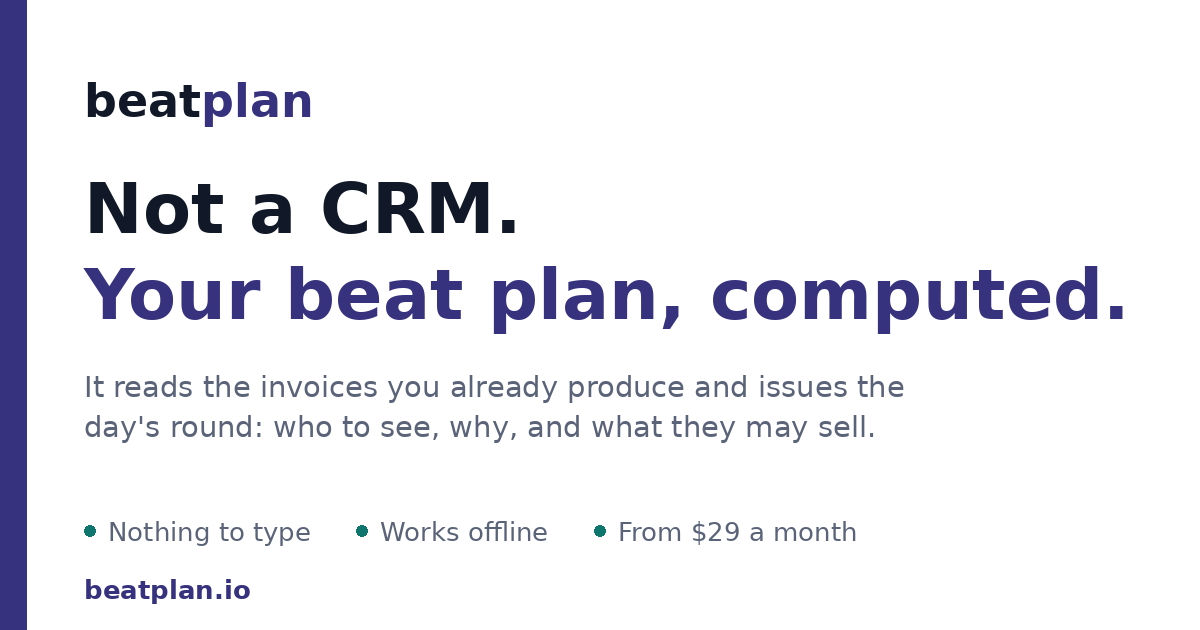
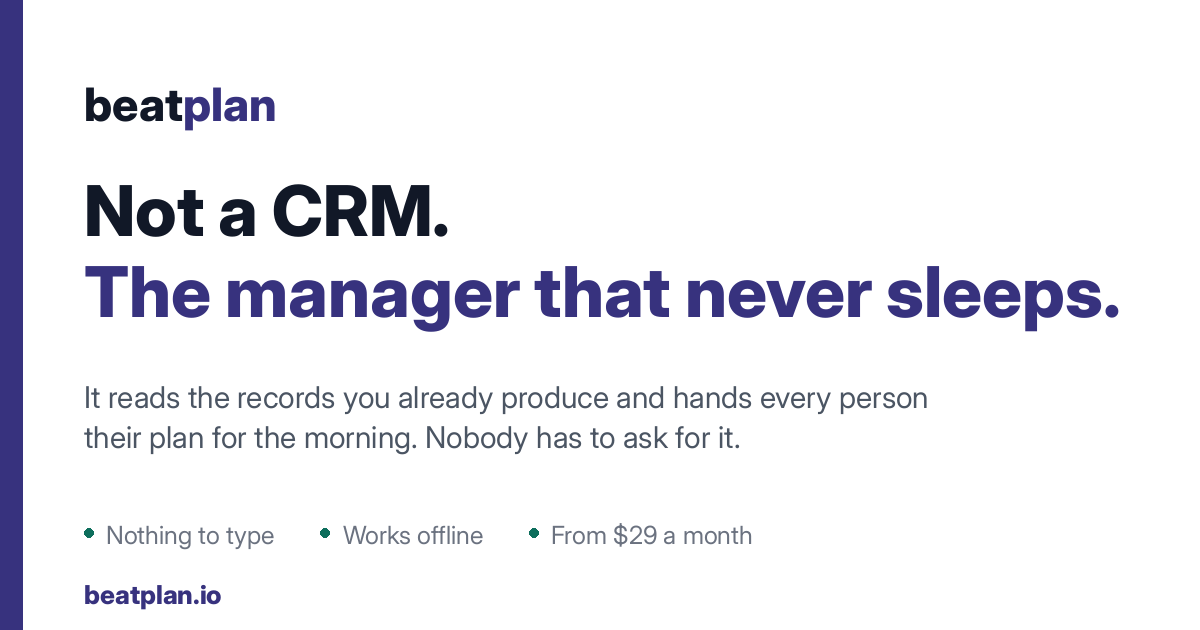
Sell the manager, not an approval queue
The trip card described work landing on a director's desk, which prices as
cost to a distributor rather than as control. The route now arrives costed
and finished. The share card carries the tagline, Greek pages get a Greek
one, and the Greek home page had no card tags at all.

Claude-Session: https://claude.ai/code/session_01BX3qPKaZ8uLsjM8UpPPava

diff --git a/el/index.html b/el/index.html
@@ -5,6 +5,14 @@
 <meta name="viewport" content="width=device-width, initial-scale=1">
 <title>Beatplan, το πλάνο της ημέρας, υπολογισμένο κάθε πρωί</title>
 <meta name="description" content="Δεν είναι CRM. Διαβάζει τα αρχεία που ήδη παράγετε, βρίσκει τι ξέφυγε, και δίνει σε κάθε άνθρωπο και κάθε τμήμα τη λίστα του για το πρωί.">
+<meta property="og:type" content="website">
+<meta property="og:title" content="Beatplan. Ο μάνατζερ που δεν κοιμάται.">
+<meta property="og:description" content="Διαβάζει τα αρχεία που ήδη βγάζετε και δίνει σε κάθε άνθρωπο το πλάνο του για το πρωί.">
+<meta property="og:url" content="https://beatplan.io/el/">
+<meta property="og:image" content="https://beatplan.io/og-el.png">
+<meta property="og:image:width" content="1200">
+<meta property="og:image:height" content="630">
+<meta name="twitter:card" content="summary_large_image">
 <link rel="canonical" href="https://beatplan.io/el/">
 <link rel="alternate" hreflang="en" href="https://beatplan.io/">
 <link rel="alternate" hreflang="el" href="https://beatplan.io/el/">
@@ -240,7 +248,7 @@
     <div class="grid g3">
       <div class="card"><h3>Κάθε πελάτης, μία καρτέλα</h3><p>Επαφές, ιστορικό, τι αγοράζει, τι χρωστάει, κάθε κλήση που καταγράφηκε ποτέ, σε ένα σημείο αντί για πέντε.</p></div>
       <div class="card"><h3>Οφειλές και υποσχέσεις πληρωμής</h3><p>Ποιος χρωστάει τι, πόσο παλιό είναι, ποιος υποσχέθηκε τι και πότε. Καταγράφεται με ένα πάτημα από την ίδια οθόνη με την κλήση.</p></div>
-      <div class="card"><h3>Σχεδιασμός ταξιδιών</h3><p>Προτείνεται διαδρομή, εγκρίνεται, και το ταξίδι μένει ανοιχτό μέχρι να κατατεθεί η αναφορά. Τέλος οι διαδρομές που δεν δικαιολογεί κανείς.</p></div>
+      <div class="card"><h3>Σχεδιασμός ταξιδιών</h3><p>Η διαδρομή έρχεται έτοιμη και κοστολογημένη, με τους πελάτες που χρωστούν ήδη μέσα. Το ταξίδι μένει ανοιχτό μέχρι να κατατεθεί η αναφορά. Τέλος οι διαδρομές που δεν δικαιολογεί κανείς.</p></div>
       <div class="card"><h3>Φωνητικές σημειώσεις σε γραπτές αναφορές</h3><p>Ο πωλητής μιλάει τριάντα δευτερόλεπτα στην άκρη του δρόμου. Επιστρέφει ως δομημένη, αρχειοθετημένη αναφορά. Κανείς δεν πληκτρολογεί μέσα σε όχημα.</p></div>
       <div class="card"><h3>Αναφορές προς τη διοίκηση</h3><p>Ημερήσια ενημέρωση, εβδομαδιαίο πλάνο και μηνιαία ανασκόπηση: τζίρος σε σχέση με τον ίδιο μήνα πέρυσι, ποιος μεγάλωσε, ποιος έπεσε, πώς παλιώνουν οι απαιτήσεις.</p></div>
       <div class="card"><h3>Απόθεμα, λήξεις και παρτίδες</h3><p>Τι πλησιάζει λήξη, τι είναι νεκρό, τι είναι δεσμευμένο, αποτιμημένο σε αυτό που πληρώσατε και όχι σε αυτό που ελπίζατε να πάρετε.</p></div>

diff --git a/index.html b/index.html
@@ -25,7 +25,7 @@
 <meta property="og:image:type" content="image/png">
 <meta property="og:image:width" content="1200">
 <meta property="og:image:height" content="630">
-<meta property="og:image:alt" content="Beatplan. Not a CRM. Your beat plan, computed.">
+<meta property="og:image:alt" content="Beatplan. Not a CRM. The manager that never sleeps.">
 
 <meta name="twitter:card" content="summary_large_image">
 <meta name="twitter:title" content="Not a CRM. Your beat plan, computed.">
@@ -245,7 +245,7 @@
     <div class="grid g3">
       <div class="card"><h4>Every customer, one card</h4><p class="small" style="margin-top:.4rem">Contacts, history, what they buy, what they owe, every call ever logged, in one place instead of five.</p></div>
       <div class="card"><h4>Debtors and promises to pay</h4><p class="small" style="margin-top:.4rem">Who owes what, how old it is, who promised what and when. Logged in one tap from the same screen as the call.</p></div>
-      <div class="card"><h4>Trip planning</h4><p class="small" style="margin-top:.4rem">Propose a route, get it approved, and the trip stays open until the report is filed. No more journeys nobody can account for.</p></div>
+      <div class="card"><h4>Trip planning</h4><p class="small" style="margin-top:.4rem">The route comes back costed, with who owes and who has slipped already on it. The trip stays open until the report is filed, so no journey goes unaccounted for.</p></div>
       <div class="card"><h4>Voice notes into written reports</h4><p class="small" style="margin-top:.4rem">A salesman speaks for thirty seconds at the roadside. It comes back as a structured, filed report. Nobody types in a vehicle.</p></div>
       <div class="card"><h4>Reports to management</h4><p class="small" style="margin-top:.4rem">Daily briefing, weekly plan and a monthly review for directors: revenue against the same month last year, who grew, who declined, how the debtor book is ageing.</p></div>
       <div class="card"><h4>Stock, expiry and batches</h4><p class="small" style="margin-top:.4rem">What is near expiry, what is dead, what is tied up, valued at what you paid for it rather than what you hoped to sell it for.</p></div>

diff --git a/el/assessment/index.html b/el/assessment/index.html
@@ -21,17 +21,17 @@
 <meta property="og:type" content="website">
 <meta property="og:url" content="https://beatplan.io/">
 <meta property="og:locale" content="en_GB">
-<meta property="og:image" content="https://beatplan.io/og.png">
-<meta property="og:image:secure_url" content="https://beatplan.io/og.png">
+<meta property="og:image" content="https://beatplan.io/og-el.png">
+<meta property="og:image:secure_url" content="https://beatplan.io/og-el.png">
 <meta property="og:image:type" content="image/png">
 <meta property="og:image:width" content="1200">
 <meta property="og:image:height" content="630">
-<meta property="og:image:alt" content="Beatplan. Not a CRM. Your beat plan, computed.">
+<meta property="og:image:alt" content="Beatplan. Not a CRM. The manager that never sleeps.">
 
 <meta name="twitter:card" content="summary_large_image">
 <meta name="twitter:title" content="Not a CRM. Your beat plan, computed.">
 <meta name="twitter:description" content="Beatplan reads the invoices you already produce and issues the day's round: who to see, why, and what they may sell.">
-<meta name="twitter:image" content="https://beatplan.io/og.png">
+<meta name="twitter:image" content="https://beatplan.io/og-el.png">
 
 <link rel="icon" href="/favicon.ico" sizes="any">
 <link rel="icon" type="image/png" sizes="32x32" href="/favicon-32.png">

diff --git a/assessment/index.html b/assessment/index.html
@@ -26,7 +26,7 @@
 <meta property="og:image:type" content="image/png">
 <meta property="og:image:width" content="1200">
 <meta property="og:image:height" content="630">
-<meta property="og:image:alt" content="Beatplan. Not a CRM. Your beat plan, computed.">
+<meta property="og:image:alt" content="Beatplan. Not a CRM. The manager that never sleeps.">
 
 <meta name="twitter:card" content="summary_large_image">
 <meta name="twitter:title" content="Not a CRM. Your beat plan, computed.">

diff --git a/el/questionnaire/index.html b/el/questionnaire/index.html
@@ -14,7 +14,7 @@
 <meta property="og:type" content="website">
 <meta property="og:url" content="https://beatplan.io/el/questionnaire/">
 <meta property="og:locale" content="el_GR">
-<meta property="og:image" content="https://beatplan.io/og.png">
+<meta property="og:image" content="https://beatplan.io/og-el.png">
 <meta property="og:image:width" content="1200">
 <meta property="og:image:height" content="630">
 
